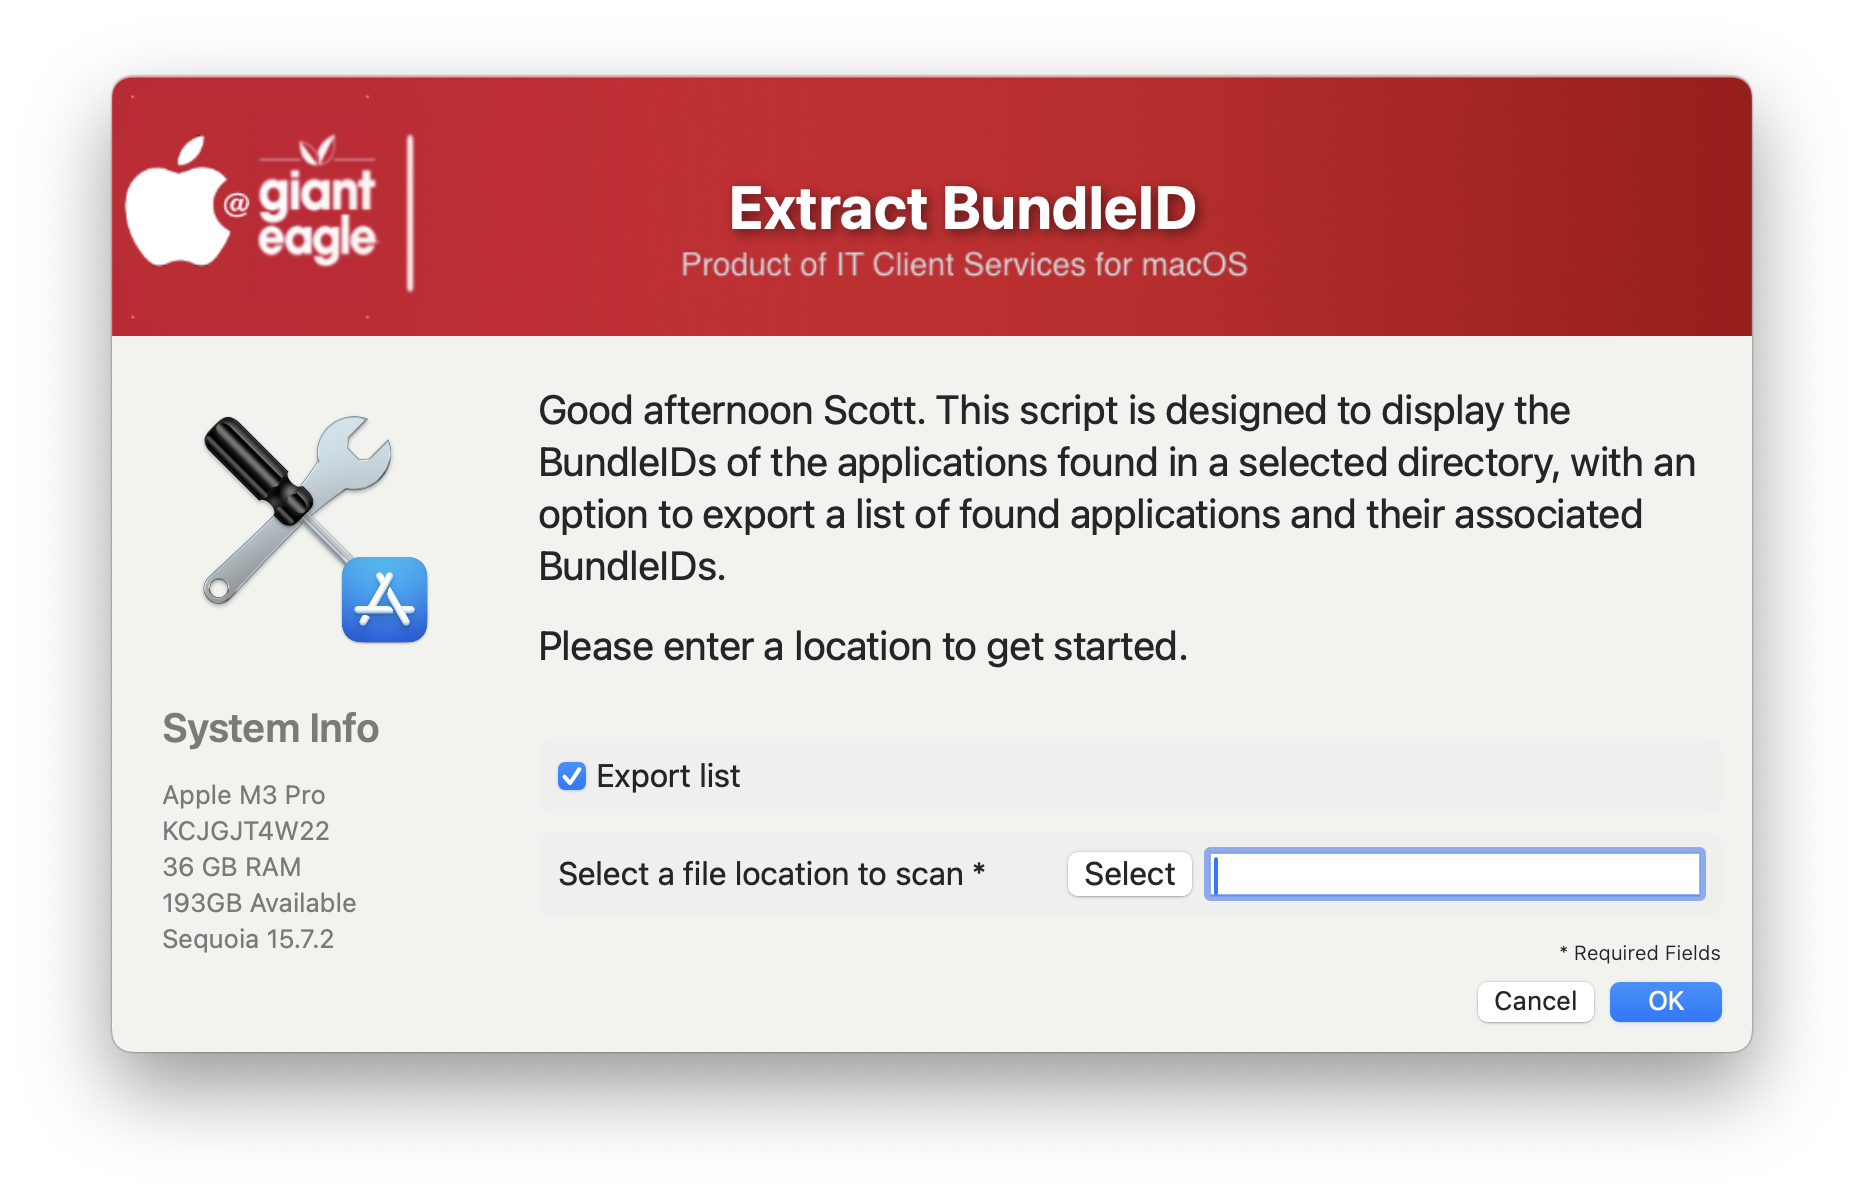
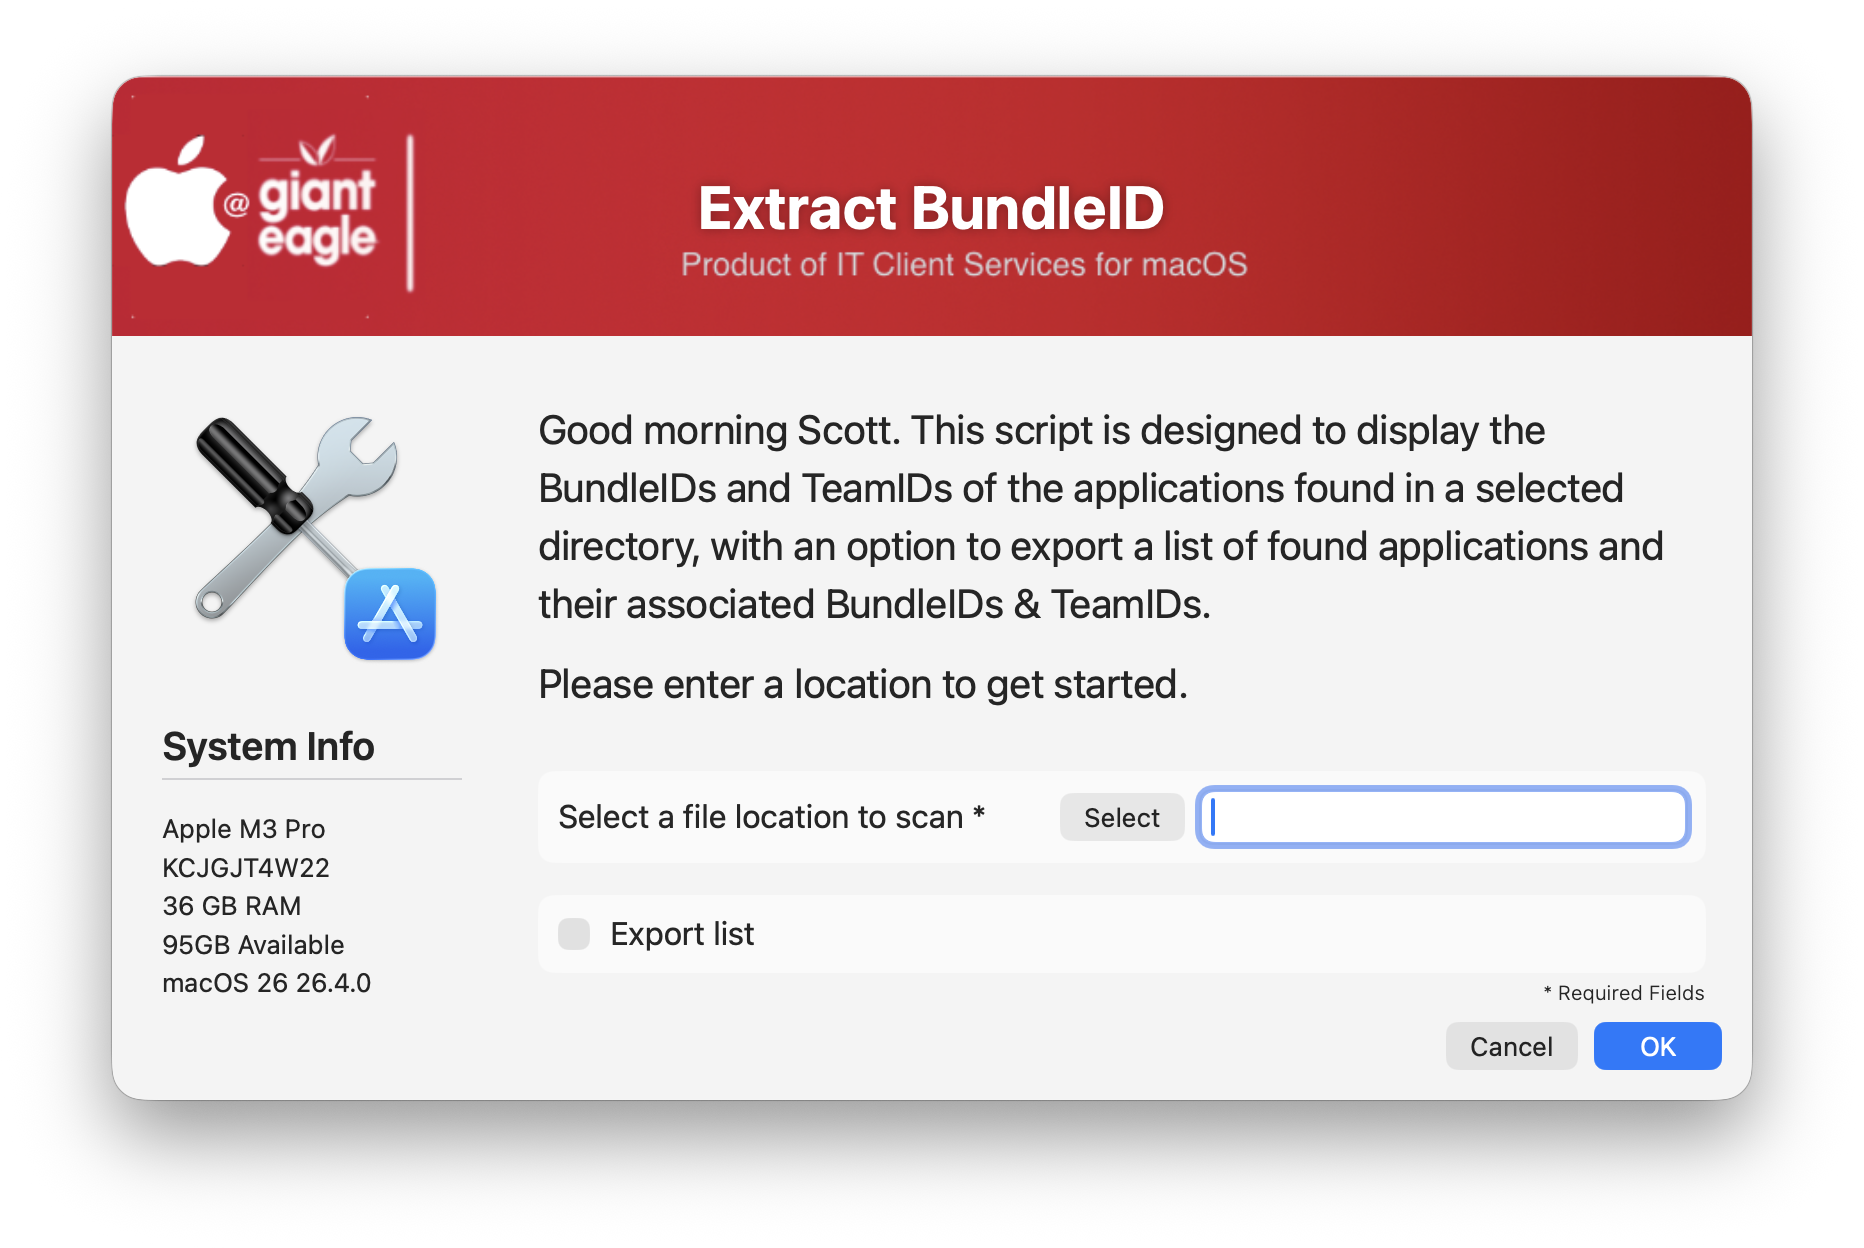
Utility to view the BundleIDs & TeamIDs of applications

diff --git a/GetBundleID/README.md b/GetBundleID/README.md
@@ -1,6 +1,6 @@
 ## GetBundleIDs  
 
-Handy little utility to retreive all of the bundleIDs from a given directory.  If you need to only do one app, I have also included an Automator droplet to extract the BundleID from a single app.
+Handy little utility to retreive all of the bundleIDs & TeamIDs from a given directory.  If you need to only do one app, I have also included an Automator droplet to extract the BundleID from a single app.  I like to use this app when I am setting up manaaged login items in JAMF.  It needs both the BundleID and the TeamID.
 
 Welcome Screen
 
@@ -20,3 +20,6 @@ Results screen
 | 1.3 | Changed JAMF 'policy -trigger' to 'JAMF policy -event'
 ||       Optimized "Common" section for better performance
 ||       Fixed variable names in the defaults file section
+| 2.0 | Now includes TeamID in the listing as well
+|| Changed the order of the items in the welcome screen
+